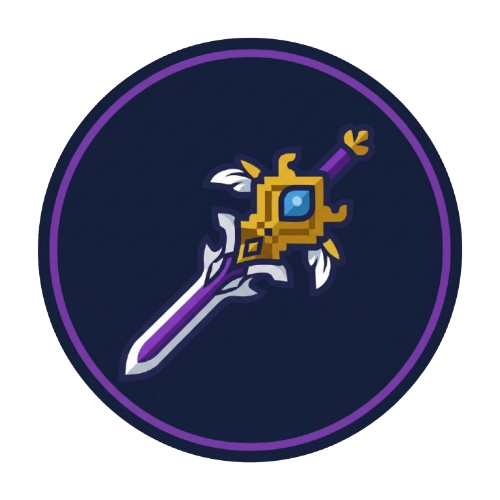
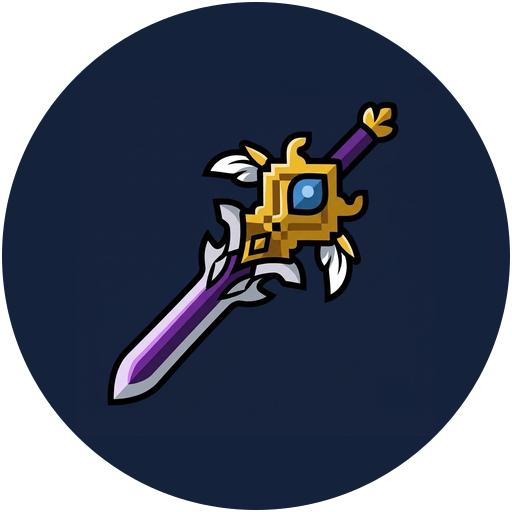
아이콘 수정

diff --git a/src/component/battleScreen/augment/AugmentIcon.js b/src/component/battleScreen/augment/AugmentIcon.js
@@ -610,6 +610,13 @@ export const AugmentIcon = ({ id, size = 42, pokemon = null, pokemonId = null, s
             <stop offset="100%" stopColor="#4c1d95" />
           </linearGradient>
 
+          {/* 순애 / 진안상애 하늘색 링 그라데이션 */}
+          <linearGradient id="pureLoveCyanRingGrad" x1="0%" y1="0%" x2="100%" y2="100%">
+            <stop offset="0%" stopColor="#7dd3fc" />
+            <stop offset="50%" stopColor="#38bdf8" />
+            <stop offset="100%" stopColor="#0284c7" />
+          </linearGradient>
+
           {/* 회복 전용 그라데이션 (에메랄드/그린 테마) */}
           <linearGradient id="recoveryCrossGrad" x1="0%" y1="0%" x2="0%" y2="100%">
             <stop offset="0%" stopColor="#4ade80" />
@@ -3900,12 +3907,12 @@ export const AugmentIcon = ({ id, size = 42, pokemon = null, pokemonId = null, s
           </g>
         )}
 
-        {/* 무례하긴, 순애야. / 진안상애 (유저 커스텀 일러스트 + 원형 클리핑 & 퍼플 링) */}
+        {/* 무례하긴, 순애야. / 진안상애 (유저 커스텀 일러스트 + 원형 클리핑 & 하늘색 링) */}
         {(id === "rudePureLove" || id === "jinanSangae") && (
           <g clipPath="url(#lwClip)">
-            <image href="/pokemon/img/augment/rudePureLove.png?v=2" x="1" y="1" width="62" height="62" preserveAspectRatio="xMidYMid slice" />
-            <circle cx="32" cy="32" r="29.5" fill="none" stroke="url(#zeroSumRingGrad)" strokeWidth="1.8" />
-            <circle cx="32" cy="32" r="28.2" fill="none" stroke="#d8b4fe" strokeWidth="0.5" strokeOpacity="0.5" />
+            <image href={`/pokemon/img/augment/${id === "jinanSangae" ? "jinanSangae" : "rudePureLove"}.png?v=4`} x="1" y="1" width="62" height="62" preserveAspectRatio="xMidYMid slice" />
+            <circle cx="32" cy="32" r="29.5" fill="none" stroke="url(#pureLoveCyanRingGrad)" strokeWidth="2" />
+            <circle cx="32" cy="32" r="28.2" fill="none" stroke="#bae6fd" strokeWidth="0.6" strokeOpacity="0.85" />
           </g>
         )}
 
@@ -4009,12 +4016,12 @@ export const AugmentIcon = ({ id, size = 42, pokemon = null, pokemonId = null, s
           </g>
         )}
 
-        {/* 아케인셰이드 투핸드소드 (일러스트 이미지 + 원형 클리핑 & 아케인 보라 링) */}
+        {/* 아케인셰이드 투핸드소드 (일러스트 이미지 + 원형 클리핑 & 보라색 테두리) */}
         {id === "arcaneShadeSword" && (
           <g clipPath="url(#lwClip)">
-            <image href="/pokemon/img/augment/arcaneShadeSword.png" x="1" y="1" width="62" height="62" preserveAspectRatio="xMidYMid slice" />
-            <circle cx="32" cy="32" r="29.5" fill="none" stroke="url(#prismRing)" strokeWidth="1.8" />
-            <circle cx="32" cy="32" r="28.2" fill="none" stroke="#c084fc" strokeWidth="0.5" strokeOpacity="0.8" />
+            <image href="/pokemon/img/augment/arcaneShadeSword.png?v=3" x="1" y="1" width="62" height="62" preserveAspectRatio="xMidYMid slice" />
+            <circle cx="32" cy="32" r="29.5" fill="none" stroke="url(#zeroSumRingGrad)" strokeWidth="2" />
+            <circle cx="32" cy="32" r="28.2" fill="none" stroke="#d8b4fe" strokeWidth="0.6" strokeOpacity="0.85" />
           </g>
         )}
 

diff --git a/src/entity/Augment/AugmentData.js b/src/entity/Augment/AugmentData.js
@@ -402,13 +402,7 @@ export const AUGMENT_LIST = [
     weight: 100,
     isEligible: (pokemon, battle, team) => {
       if (battle?.teamOption !== "트레이드") return false;
-      const normalCount = Array.isArray(pokemon?.augments) ? pokemon.augments.filter((a) => isNormalAugment(a)).length : 0;
-      if (normalCount > 1) return false;
-      const resolvedTeam = Array.isArray(team) && team.length > 0 ? team : battle ? [battle.player, battle.playerBench1, battle.playerBench2].filter(Boolean) : [pokemon].filter(Boolean);
-      if (resolvedTeam.some((p) => p?.hasAugment?.("jinanSangae") || p?.hasAugment?.("rudePureLove"))) {
-        return false;
-      }
-      return true;
+      return !pokemon?.hasAugmentOnTeam?.("jinanSangae", team || battle);
     },
     onApply: function (pokemon, battle, options) {
       if (!pokemon) return;

diff --git a/src/entity/Pokemon/Methods/PokemonAugment.js b/src/entity/Pokemon/Methods/PokemonAugment.js
@@ -37,9 +37,7 @@ export const PokemonAugment = {
         team = [battleOrTeam.player, battleOrTeam.playerBench1, battleOrTeam.playerBench2];
       } else {
         const isPlayerSide = [battleOrTeam.player, battleOrTeam.playerBench1, battleOrTeam.playerBench2].includes(this);
-        team = isPlayerSide
-          ? [battleOrTeam.player, battleOrTeam.playerBench1, battleOrTeam.playerBench2]
-          : [battleOrTeam.npc, battleOrTeam.npcBench1, battleOrTeam.npcBench2];
+        team = isPlayerSide ? [battleOrTeam.player, battleOrTeam.playerBench1, battleOrTeam.playerBench2] : [battleOrTeam.npc, battleOrTeam.npcBench1, battleOrTeam.npcBench2];
       }
     }
 
